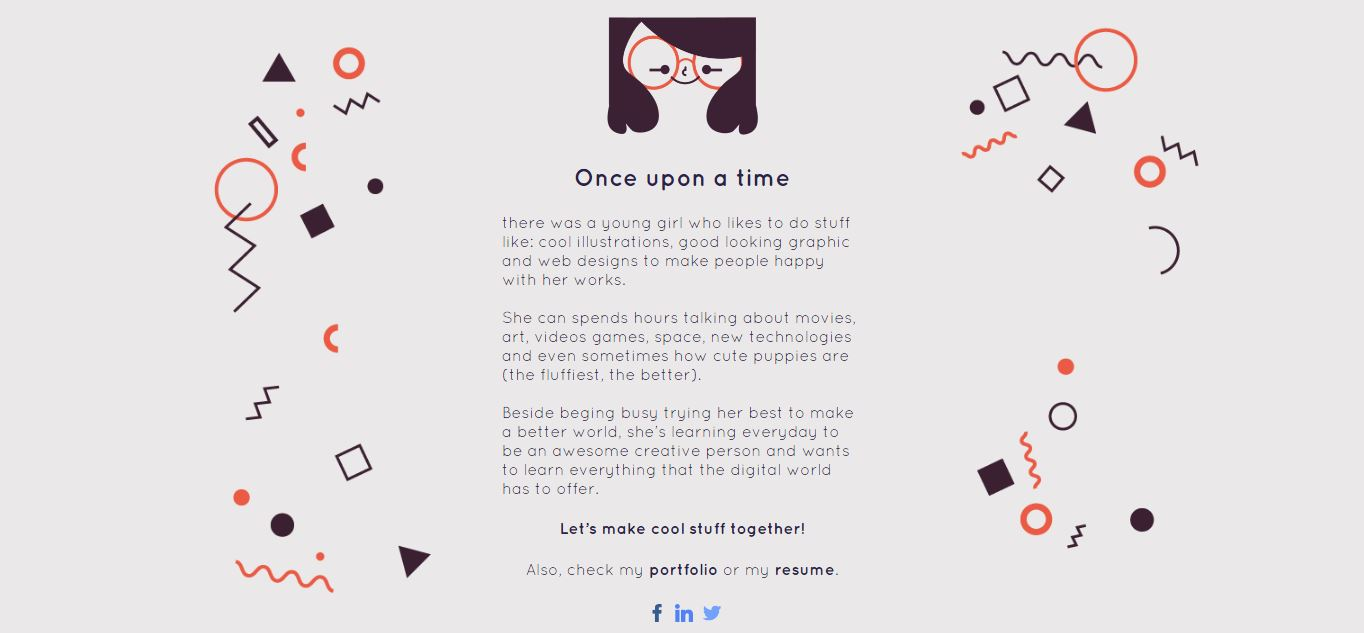
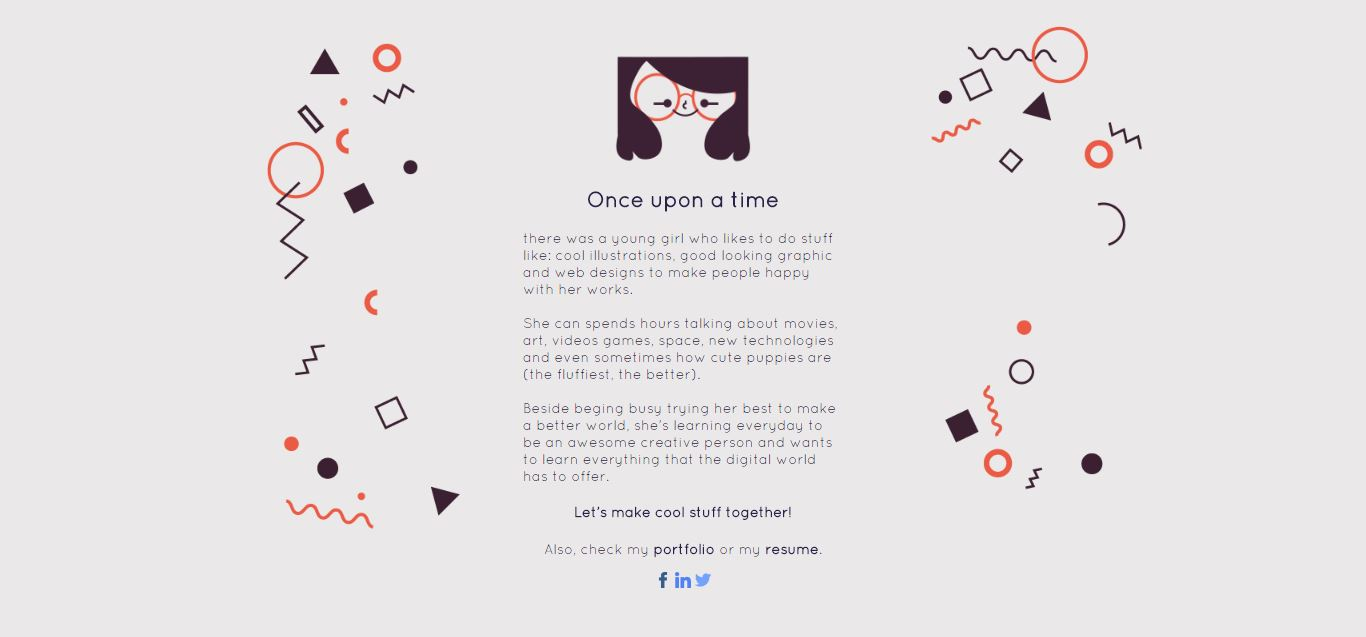
vcard

diff --git a/index.html b/index.html
@@ -3,33 +3,30 @@
 	<head>
 		<title>VCard</title>
 		<meta charset="utf-8" />
+		<link href="https://fonts.googleapis.com/css?family=Quicksand" rel="stylesheet">
 		<link rel="stylesheet" href="style.css" />
 	</head>
 	<body>
 
 	<div class="center img"><img src="img/moi.png" alt="moi" height="140" width="170"></div>
 
-	<section class="container--text center">
-	<div class="text">
+	<section class="text container--text center">
 	<h1 class="center">Once upon a time</h1>
-	<p class="">there was a young girl who likes to do stuff like:
-cool illustrations, good looking graphic and web designs to make people happy with her works.<br><br>
+	there was a young girl who likes to do stuff like:
+	cool illustrations, good looking graphic and web designs to make people happy with her works.<br><br>
 
-She can spends hours talking about movies, art, videos games, space, new technologies and even sometimes how cute puppies are (the fluffiest, the better).<br><br>
+	She can spends hours talking about movies, art, videos games, space, new technologies and even sometimes how cute puppies are (the fluffiest, the better).<br><br>
 
-Beside beging busy trying her best to make a better world, she’s learning everyday to be an awesome creative person and wants to learn everything that the digital world has to offer.<br></p>
+	Beside beging busy trying her best to make a better world, she’s learning everyday to be an awesome creative person and wants to learn everything that the digital world has to offer.<br>
 	<h4 class="center">Let’s make cool stuff together!</h4>
 	<p class="center">Also, check my <a class="nav__el" href="https://www.behance.net/louiseneys1ec3">portfolio</a> or my <a class="nav__el" href="img/CV_2016.pdf">resume</a>.</p>
 
 	<div class="center">
- 	<div class="social"><a href="https://www.facebook.com/louise.neys"><img src="img/facebook.png" alt="facebook" height="20" width="20"></a></div>
+ 	<div class="center social"><a href="https://www.facebook.com/louise.neys"><img src="img/facebook.png" alt="facebook" height="20" width="20"></a></div>
  	<div class="social"><a href="https://www.linkedin.com/in/louise-neys-132370121"><img src="img/linkedin.png" alt="linkedin" height="20" width="20"></a></div>
-	 <div class="social"><a href="https://twitter.com/loueuh"><img src="img/twitter.png" alt="twitter" height="20" width="20"></a></div>
-	 </div>
+	 <div class="social"><a href="https://twitter.com/loueuh"><img src="img/twitter.png" alt="twitter" height="20" width="20"></a></div></div>
 
-
-	</div>
 	</section>
 	</body>
-
 	</html>
+

diff --git a/style.css b/style.css
@@ -5,19 +5,8 @@ body {
 	line-height: 1.2;
 	margin: 0 auto;	
 	background: url(img/formes.png) no-repeat center top #EAE9E9;
-
-}
-.title {
-	font-size: 30px;
-	line-height: 1.2;
-	font-family: 'quicksand', sans-serif;
-	color: #2D2825;
-	font-weight: normal;
-}
-.container{
-	width: 1200px;
-	margin: 0 auto;
-
+	margin-top: 50px;
+	margin-bottom: 350px;
 }
 .container--text {
 	width: 400px;
@@ -33,10 +22,9 @@ body {
   text-align: left; 
 }
 .social{
-	display: inline-block;
-	margin-left: 5px;
-	margin-top: 10px;
-
+    display: inline-block;
+    margin-left: auto;
+    margin-right: auto;
 }
 .nav__el{
 	font-weight: 900;
